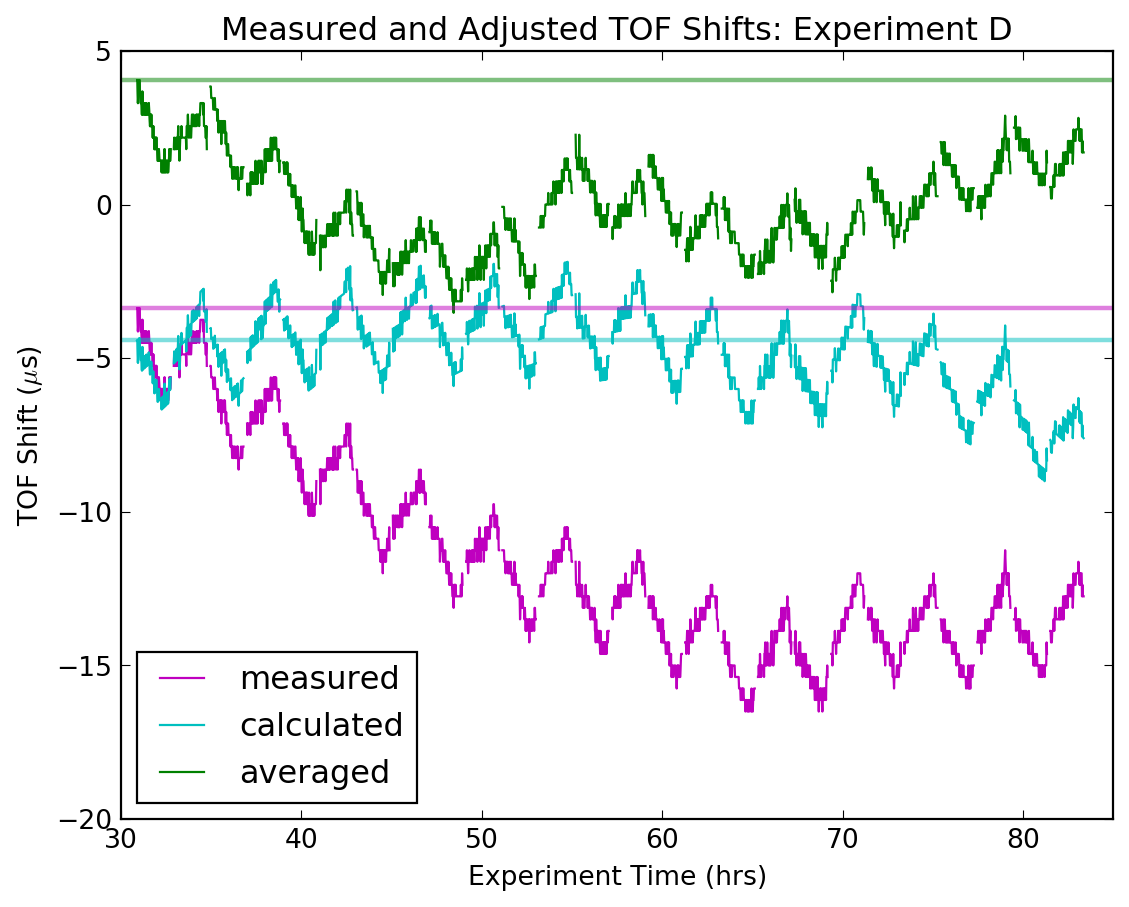
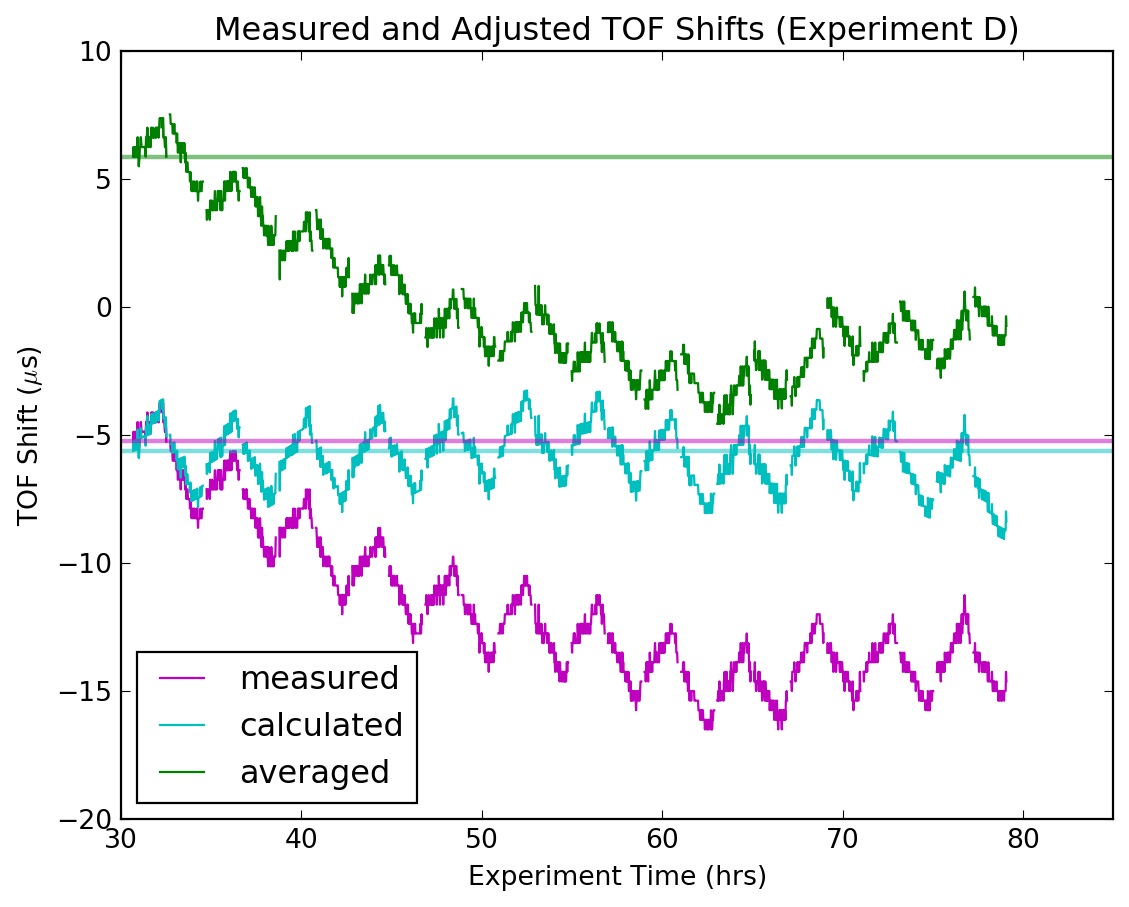
conclusion - finished ?

diff --git a/Thesis/results.tex b/Thesis/results.tex
@@ -7,7 +7,7 @@ By systematically adding and understanding changes in each category to the exper
 
 SoC and SoH cause changes in the travel time of an ultrasonic signal through the cell due to changes to the cell's bulk properties, including the materials composition of each layer, the stiffnesses and densities of these materials, and the thicknesses of these layers \cite{SOC-SOH-EST}. The relationship between the velocity $V_p$ at which a wave travels through an isotropic elastic material can and the materials properties of the material its traveling through can be expressed as
 $$ V_p = \sqrt{\frac{K + \frac{3}{4}G}{\rho}}$$
-where $K$ is the material bulk modulus, $G$ is the material shear modulus, and $\rho$ is the material density \cite{SOC-SOH-EST}. This shows that increases in a layer's density will increase the time a wave spends transmitting through a layer, causing a positive TOF shift. Conversely, increases in a layer's bulk and shear moduli (essentially, stiffening of the layer), will allow the ultrasonic wave to propogate through the layer more quickly, causing a negative TOF shift. As the state of charge of the cell changes, lithium ions are forced to move between electrodes, changing the cell's materials composition and materials structure. As the state of health changes, metallic lithium both collects on the surface of the graphite electrode, and fills some of the graphite's pores, changing the stiffness of the material and its density. The density and thickness of various layers of the cell at different states of charge or health is complicated to model, but the particulars aren't actually needed in order to interpret changes in ToF as caused by changes in state of health, state of charge, or even changes in ambient conditions. In order to avoid that complicated analysis, this work focuses on the metric of change in ToF shift. For any given state of health, cycling of state of charge should create a consistently undulating curve, so if a cycle's ToF shift is normalized against the ToF shift data from the first cycle, changes in either state of health or ambient conditions can be observed. The remainder of this paper will step through the analysis to build that up step by step, first by establishing an understanding of the relationship between ToF shift and state of charge, then considering variation in state of health, and finally incorporating change in ambient temperature, a step not taken in prior work.
+where $K$ is the material bulk modulus, $G$ is the material shear modulus, and $\rho$ is the material density \cite{SOC-SOH-EST}. This shows that increases in a layer's density will increase the time a wave spends transmitting through a layer, causing a positive TOF shift. Conversely, increases in a layer's bulk and shear moduli (essentially, stiffening of the layer), will allow the ultrasonic wave to propagate through the layer more quickly, causing a negative TOF shift. As the state of charge of the cell changes, lithium ions are forced to move between electrodes, changing the cell's materials composition and materials structure. As the state of health changes, metallic lithium both collects on the surface of the graphite electrode, and fills some of the graphite's pores, changing the stiffness of the material and its density. The density and thickness of various layers of the cell at different states of charge or health is complicated to model, but the particulars aren't actually needed in order to interpret changes in ToF as caused by changes in state of health, state of charge, or even changes in ambient conditions. In order to avoid that complicated analysis, this work focuses on the metric of change in ToF shift. For any given state of health, cycling of state of charge should create a consistently undulating curve, so if a cycle's ToF shift is normalized against the ToF shift data from the first cycle, changes in either state of health or ambient conditions can be observed. The remainder of this paper will step through the analysis to build that up step by step, first by establishing an understanding of the relationship between ToF shift and state of charge, then considering variation in state of health, and finally incorporating change in ambient temperature, a step not taken in prior work.
 
 When this paper discusses wave arrivals, it is shorthand for first-arrival; subsequent arrivals change less straightforwardly than the first arrival since they are impacted by the thickness of each layer and the relative properties of each adjacent layer \cite{SOC-SOH-EST}, complicating analysis without adding much understanding, so are ignored in these analyses.
 
@@ -17,7 +17,7 @@ When this paper discusses wave arrivals, it is shorthand for first-arrival; subs
 \section{Time of Flight Shift Due to Change in State of Charge}
 The data clearly demonstrate a strong and consistent relationship between acoustic ToF through the cell and the cell's state of charge while ambient conditions and cell state of health are held steady.  \hyperref[fig:0315]{\cref{fig:0315}} shows a protocol with two C/2.5, two 2C, two 5C, and two 10C charging cycles. The TOF data is very similar for each of the cycles in the C/2.5 and 2C cycles, which would would expect since the temperature is roughly constant, and there should have been no appreciable plating at such gentle cycles. One would expect that if the only cause in ToF shift was change in state of charge, then the ToF at the beginning of the charge cycle and the end of the discharge cycle would be the same, which is approximately the case for the C/2.5 and 2C cycles. Starting a bit with the 5C cycles and becoming quite noticeable with the 10C cycles, there is an offset between the ToF the charging portion of the cycle begins at, and the ToF the discharging portion ends at; this was not the case with the gentle cycles and happens despite the temperature holding relatively steady (about $1^{\circ}$C variation across all four latter cycles), suggesting the cause is lithium plating (a change in the state of health of the cell).
 
-\begin{figure}[t]\label{fig:0315}
+\begin{figure}[h!]\label{fig:0315}
     \includegraphics[width=0.55\textwidth]{Thesis/0315.png}
     \centering
     \caption{ToF Shift across the experiment, with load voltage and temperature shift.}
@@ -38,7 +38,7 @@ Since the ambient conditions were steady and there was no variation in the cycli
 This is corroborated by optical, SEM, and XPS imaging. 
 SEM (scanning electron microscope) and XPS (X-Ray Photoelectron Spectroscopy) analyses confirm plating on the electrodes of the cells, but such techniques do not provide information on when the plating occurred.
 
-\begin{figure}[t!]\label{fig:optical}
+\begin{figure}[h!]\label{fig:optical}
 \centering
      \begin{subfigure}
          \centering
@@ -58,7 +58,7 @@ Visual analysis provided simple confirmation that the cell had plated; since the
 %% SEM ANALYSIS
 %%
 \subsubsection{SEM Imaging}
-\begin{figure}[t!]\label{fig:sem}
+\begin{figure}[h!]\label{fig:sem}
 \centering
 \caption{SEM images of cells after experiencing a few 5C cycles and either zero (left), one (center), or two (right) 10C cycles.}
      \begin{subfigure}
@@ -113,7 +113,21 @@ the measured change in acoustic ToF attributable to the change in volume due to 
 It assumes the cell's strenuous operation and resulting lithium plating had no effect on the graphite.
 It also assumes a solid lithium plate of constant density, which, to reiterate, is not truly the case. Nonetheless, those should have small effects on the response. 
 
-The literature suggests that volume changes of other components of the cell would have similarly small contributions to the change in acoustic ToF. Siegel et al demonstrated that repeated 5C cycling of lithium ion pouch cells experienced a volume expansion of just 1.5\% across 21 cycles \cite{EXPANSION}, suggesting that the cells in these experiments would have experienced similarly small changes in volume, which would have minimally contributed to the changes in ToF shift following plating. Indeed, Davies et al induced an increase in cell thickness by charging a pouch cell yet found that due to the overwhelimg influence of other factors on ToF, the cell's ToF actually decreased as the cell charged \cite{SOC-SOH-EST}.
+The literature suggests that volume changes of other components of the cell would have similarly small contributions to the change in acoustic ToF. Siegel et al demonstrated that repeated 5C cycling of lithium ion pouch cells experienced a volume expansion of just 1.5\% across 21 cycles \cite{EXPANSION}, suggesting that the cells in these experiments would have experienced similarly small changes in volume, which would have minimally contributed to the changes in ToF shift following plating. Indeed, Davies et al induced an increase in cell thickness by charging a pouch cell yet found that due to the overwhelming influence of other factors on ToF, the cell's ToF actually decreased as the cell charged \cite{SOC-SOH-EST}.
+
+\begin{figure}[h!]\label{fig:rest}
+\centering
+     \begin{subfigure}
+         \centering
+         \includegraphics[width=0.48\textwidth]{Thesis/0409rest.png}
+     \end{subfigure}
+     \hfill
+     \begin{subfigure}
+         \centering
+         \includegraphics[width=0.48\textwidth]{Thesis/0417rest.png}
+     \end{subfigure}
+     \caption{These plots comparing ToF shift, $\Delta$T, and voltage across experiments C and D show that the increases in ToF created by the 5C cycles persist even though the extended three hour rests; visually, any variation in ToF across the rests corresponds with changes in temperature.}
+\end{figure}
 
 That said, it could be argued that the gradually increasing ToF shifts from the 5C and especially 10C cycles are due to viscoelastic relaxation - while the 10 minute rest periods between cycles was enough for the C/2.5 and 2C cycles, the more strenuous cycles perhaps require more time for full relaxation. However, this is refuted by the data from the longer three hours rests which serve as transitions between charging rates. Take as example the three hour rest between the 5C and 10C rates in Experiment D; the ToF shift is near constant, suggesting no relaxation takes place, and the progressively increasing ToF shift during that cycle was in fact due to plating; the optical, SEM, and XPS imaging results reinforce this.
 
@@ -144,7 +158,7 @@ Polynomial fits and linear regressions correlate change in ambient temperature w
 
 The thermocouples and transducers have different sampling rates and schedules, so a couple approaches created paired change in ToF shift and change in temperature data; these are compared in \hyperref[fig:0417temp]{\cref{fig:0417temp}}. 
 In one version of the analysis, change in temperature data was averaged across a cycle and regressed against change in TOF shift data. 
-\begin{figure}[t]\label{fig:0417temp}
+\begin{figure}[h!]\label{fig:0417temp}
     \includegraphics[width=0.55\textwidth]{0417temp.png}
     \centering
     \caption{Calculated vs measured temperatures.}
@@ -152,9 +166,10 @@ In one version of the analysis, change in temperature data was averaged across a
 More accurate results resulted from interpolating the temperature data using linear or polynomial fits, depending on the shape of the temperature data.
 
 The analysis shows a reasonable estimate at how the ToF would shift without the influence of the ambient temperature shifts, potentially broadening the application of the technique in monitoring cells. The data from Experiment D provides the following correction to remove the influence of temperature fluctuations from time of flight data:
-$$ \text{ToF}_{adj} = \text{ToF}_{meas} + 33.46\Delta T^2 + 48.35\Delta T + 13.41)$$
 
-\begin{figure}[t!]\label{fig:adj}
+$$ \text{ToF}_{adj} = \text{ToF}_{meas} + 35.66\Delta T^2 + 59.07\Delta T + 22.77)$$
+
+\begin{figure}[h!]\label{fig:adj}
 \centering
      \begin{subfigure}
          \centering
@@ -175,13 +190,13 @@ At any particular point in the cycle's duration, the ToF shift in each cycle sho
 Ideally there would be perfect overlap in the data from each cycle within a protocol within an experiment, but before the ambient temperature shift's influence was removed, this was clearly not the case. 
 The overlap is still imperfect after the TOF shift data was adjusted based on the regressions, but it is much better.
 
-\begin{figure}[t]\label{fig:0417overlays}
+\begin{figure}[h!]\label{fig:0417overlays}
 \includegraphics[width=0.95\textwidth]{Thesis/0417overlays.png}
 \centering
 \caption{Overlays of the raw and adjusted ToF shifts across each charge cycle (far and center left) and discharge cycle (center and far right) from Experiment D. The adjusted data used a regression to remove the influence of ambient temperature fluctuations.}
 \end{figure}
 
-\begin{figure}[t]\label{fig:0409overlays}
+\begin{figure}[h!]\label{fig:0409overlays}
 \includegraphics[width=0.95\textwidth]{Thesis/0409overlays.png}
 \centering
 \caption{Overlays of the raw and adjusted ToF shifts across each charge cycle (far and center left) and discharge cycle (center and far right) from Experiment C. The adjusted data used a regression to remove the influence of ambient temperature fluctuations.}

diff --git a/Thesis/procedure.tex b/Thesis/procedure.tex
@@ -1,5 +1,4 @@
 % lithium ion: lithium cobalt oxide / graphite
-% 0.30 mAh
 \chapter{Procedure}
 The experimental procedures aimed to progressively change the cell's state of charge and state of health systematically, such that the influence of each on shift in acoustic ToF through the cell would be observable.
 The goal of the first experiment was to acoustically observe first shifts in ToF data due to change in a cell's state of charge, and then shifts due to cycling-induced lithium plating, a form of change of the cell's state of health. 
@@ -8,7 +7,7 @@ In response, several improvements were made to the experimental apparatus in an 
 The second experiment's goal was to determine whether these changes adequately controlled the ambient conditions to prevent them from overwhelming the ToF data with noise; it was successful. 
 The experiment showed a close and consistent relationship between time of flight and cell state of charge (ToF and SoC).
 
-Recall that three three main actors of change on an acoustic wave's time of flight through a battery cell are ambient conditions (most relevantly, temperature and pressure), state of charge, and state of health \todo{cite?}. Now that the set-up was validated to have minimal change in ambient conditions, and a relationship between ToF and SoC strongly established, further experimentation could reasonably explore the relationship between the cell's state of health and acoustic time of flight. The goal of the next experiment was to force plating via aggressive electrochemical cycling, and acoustically observe this while it happens using ToF data; it was successful. Following that, the goal of the next fourth experiment was to induce a minimum of plating on the cell, to use as a point of comparison; this was accomplished by cycling the cell at 5C but never 10C rates of charge. The subsequent goal was to induce just some plating in the cell, by loading at a 10C charge rate for only one charging cycle; it was successful. Then, to build up more data for analysis, potentially for use in controlling for the influence of temperature, a cell was cycled at C/2.5 20 times, before being destructively cycled at progressively higher rates until 10C.
+Recall that three three main actors of change on an acoustic wave's time of flight through a battery cell are ambient conditions (temperature and pressure), state of charge, and state of health, as shown by the prior literature such as \cite{SOC-SOH-EST}, and the fact that acoustic velocity through a material is constant at a given temperature and pressure \cite{OLYMPUS}. Now that the set-up was validated to have minimal change in ambient conditions, and a relationship between ToF and SoC strongly established, further experimentation could reasonably explore the relationship between the cell's state of health and acoustic time of flight. The goal of the next experiment was to force plating via aggressive electrochemical cycling, and acoustically observe this while it happens using ToF data; it was successful. Following that, the goal of the next fourth experiment was to induce a minimum of plating on the cell, to use as a point of comparison; this was accomplished by cycling the cell at 5C but never 10C rates of charge. The subsequent goal was to induce just some plating in the cell, by loading at a 10C charge rate for only one charging cycle; it was successful. Then, to build up more data for analysis, potentially for use in controlling for the influence of temperature, a cell was cycled at C/2.5 20 times, before being destructively cycled at progressively higher rates until 10C.
 
 \section{Observing ToF Shifts Due to State of Charge}
 
@@ -33,12 +32,12 @@ Additionally, the cycling was postponed to a later experiment.
 For now, the cell would be left at rest for the duration of the experiment. 
 If there was no significant shift in acoustic ToF data while the cell waited at rest for a long period, then the noise in the environment is adequately controlled and cycling experimentation can proceed. 
 If there were still shifts, the environment would need further control, probably through higher-precision active temperature control and pressure control. 
-For 24 hours, the cell was probed ultrasonically while pressurized in the thermal chamber \todo{thermal, pressure data}.
+For 24 hours, the cell was probed ultrasonically while pressurized in the thermal chamber.
 
 The data show that the ToF did not shift while the temperature was held constant, and then shifted in step with a shift in temperature at the end, verifying that this setup effectively reduced environmental noise to acceptable levels to begin attempting to observe ToF shifts due to cell state.
 
 \subsection{Experiment A: Acoustic Monitoring of Electrochemical Cycling}
-\begin{figure}[t]\label{fig:neware0309}
+\begin{figure}[h!]\label{fig:neware0309}
     \includegraphics[width=0.75\textwidth]{Thesis/neware0309.PNG}
     \centering
     \caption{The protocol for experiment A.}
@@ -56,16 +55,16 @@ The latter two cycles expect lithium plating.
 
 \section{Observing ToF Shifts Due to State of Health} 
 \subsection{Experiment B: Acoustic Monitoring of Lithium Plating}
-\begin{figure}[t]\label{fig:neware0325}
+\begin{figure}[h!]\label{fig:neware0325}
     \includegraphics[width=0.75\textwidth]{Thesis/neware0325.PNG}
     \centering
     \caption{The protocol for experiment B.}
 \end{figure}
 
-The goal of this test was to plate lithium at less aggressive charging rates of 5C, rather than 10C, so that most or all appreciable plating would be removed during the discharge cycle. XPS and SEM analysis showed this to be mostly successful \todo{moar}. However, the temperature fluctuated much more during this experiment than the prior, and this lead to noisy readings of time of flight. This created an opportunity to relate change in ambient temperature with change in time acoustic time of flight. 
+The goal of this test was to plate lithium at less aggressive charging rates of 5C, rather than 10C, so that most or all appreciable plating would be removed during the discharge cycle. XPS and SEM analysis showed this to be mostly successful. However, the temperature fluctuated much more during this experiment than the prior, and this lead to noisy readings of time of flight. This created an opportunity to relate change in ambient temperature with change in time acoustic time of flight. 
 
 \subsection{Experiment C: Acoustic Monitoring of Minimal Lithium Plating}
-\begin{figure}[t]\label{fig:neware0409}
+\begin{figure}[h!]\label{fig:neware0409}
     \includegraphics[width=0.75\textwidth]{Thesis/neware0409.PNG}
     \centering
     \caption{The protocol for experiment C.}
@@ -74,7 +73,7 @@ The goal of this experiment was to plate a fixed amount of lithium. It used a pr
 
 
 \subsection{Experiment D: Acoustic Monitoring of Gentle Cycling}
-\begin{figure}[t]\label{fig:neware0417}
+\begin{figure}[h!]\label{fig:neware0417}
     \includegraphics[width=0.75\textwidth]{Thesis/neware0417.PNG}
     \centering
     \caption{The protocol for experiment D.}

diff --git a/Thesis/conclusion.tex b/Thesis/conclusion.tex
@@ -1,10 +1,4 @@
 \chapter{Conclusion}
-
-This thesis demonstrated the capability of acoustic time of flight analysis to observe changes in the state of charge and state of health in a fast-charge lithium-ion cell, and even to observe changes in the cell's ambient temperature. 
-
-First, appropriate background was provided. Then, the requirements for and design of an experimental apparatus were provided. 
-In short, this apparatus allows for the control of the three factors in shifts in time of flight of an acoustic wave through the lithium-ion cell: ambient conditions (in this case, temperature and pressure are of interest), cell state of charge, and cell state of health. 
-The apparatus allows for the measurement and control of ambient temperature and pressure around the cell, and electrical load on the cell. 
-Experimental procedures were established for observing and at times manipulating the electrochemical, acoustical, and thermal state of the cell and its environment. Finally, the data gathered while following those procedures was analyzed.
-
-Ultimately, the analysis demonstrated the validity of acoustic time-of-flight analysis for observing changes in state of charge, state of health, and even ambient conditions in lithium-ion fast-charge cells. \todo{accomplished?} Further work could include going deeper into this line of research by building predictive models to quantify observed plating, developing an experimental apparatus and protocol that would allow for probing cells stacked in a more commercially-typical manner, or adapting the apparatus and analysis to work with cheaper, lower frequency sensors.
+This thesis builds on prior work in developing new, ultrasonic methods for measuring battery state of charge and state of health \emph{in operando}, and for the first time demonstrates the technology's ability to measure ambient temperature, a key metric for achieving safe, high performance electric vehicles. This work was able to demonstrate for the first time that ultrasonic state of charge and state of health monitoring methods previously developed for less finicky battery chemistries and form factors is applicable even to extreme fast-charge lithium ion cells, despite their size being on the order of microns, which greatly increased the influence of ambient effects. The work demonstrated that this could actually be viewed as a feature, as a clear relationship was demonstrated between temperature shift and time of flight shift. It was shown that this relationship is numerically consistent for a particular cell, and can even be used to reasonably predict what the readings would have been had temperature not shifted. 
+Once a cell was known, this relationship could be reversed, allowing the same sensor to be used for measuring state of charge, state of health, and temperature. The added ability for a sensor to also measure temperature could be very useful in high-performance applications such as electric vehicles, which rely on careful temperature monitoring to ensure safe battery operation and long battery lifetime.
+Further work could include going deeper into this line of research by building predictive models to quantify observed plating, developing an experimental apparatus and protocol that would allow for probing cells stacked in a more commercially-typical manner, or adapting the apparatus and analysis to work with cheaper, lower frequency sensors.

diff --git a/Thesis/apparatus.tex b/Thesis/apparatus.tex
@@ -18,7 +18,7 @@ The pressure should be adjustable. This is in part because cells of different ge
 Additionally, Cannarella defined low, medium, and high stack pressure regimes, and the high pressure regime could be used to induce lithium plating if need be \cite{STACK-STRESS}.
 
 After initial experimentation, it became clear that the apparatus would also have to be relatively temperature controlled. 
-Temperature fluctuations lead to material changes in time of flight through the cell, introducing so much noise to the data that the signal was totally obscured.
+Temperature fluctuations lead to material changes in time of flight through the cell, introducing so much noise to the data that the signal was totally obscured. This makes sense, since the velocity of an acoustic wave through a material can only be assumed constant given that temperature and pressure is constant \cite{OLYMPUS}.
 A thermal chamber was added to the set-up to hold the temperature of the cell and transducers more constant, along with thermocouples and a microcontroller to log the temperature data for use during the electrochemical-acoustical analysis.
 
 \section{Transducer Considerations}
@@ -31,7 +31,7 @@ $$\sin \theta _R = 1.22 \frac{\lambda}{d}$$
 showing that the resolution of an image is directly limited by the wavelength used to produce it \cite{RAYLEIGH}.
 Due to the simple relationship 
 $$ \lambda = c/f$$
-a transducer with a small wavelength will have an accordingly large frequency. At such a high frequency, the readings will be quite susceptible to attenuation, which increases linearly with the square of frequency and the square of bandwidth \cite{OLYMPUS}, putting resolution and attenuation at odds. Attenuation is \todo{what is}.
+a transducer with a small wavelength will have an accordingly large frequency. At such a high frequency, the readings will be quite susceptible to attenuation, which increases linearly with the square of frequency and the square of bandwidth \cite{OLYMPUS}, putting resolution and attenuation at odds. 
 
 \subsection{Near-Field Effects}
 The sound field of a transducer is not constant, but rather split into two zones with distinct behavior: the near-field (or Fresnel) zone, and the far-field (or Fraunhofer) zone \cite{OLYMPUS}. 

diff --git a/Thesis/background.tex b/Thesis/background.tex
@@ -19,7 +19,7 @@ Good charge and discharge performance requires that the "lithium insertion/extra
 
 \subsubsection{Lithium Plating}
 The reactivity of lithium with its electrolyte can lead to considerable performance degradation \cite{HANDBOOK}. 
-This is exasperated because repetitive charge-discharge cycling can permanently change the cell \cite{HANDBOOK}.
+This is exacerabated because repetitive charge-discharge cycling can permanently change the cell \cite{HANDBOOK}.
 During recharging, as the lithium is forced back onto the anode, it electroplates, forming a surface layer onto the electrode which has a larger surface area than the original metal \cite{HANDBOOK}. 
 Thus, charge and recharge cycling increases the surface area of the reacting surface, which correspondingly increases the reactivity \cite{HANDBOOK}. 
 Aggressive charge and discharge can force enough plating to significantly increase the surface area of the electrode, thus significantly increasing the cell's reactivity.
@@ -47,7 +47,7 @@ Charge with constant-voltage until the current steps down to ~0.1 Amps, at which
 \subsubsection{Charging Rates}
 To normalize across battery capacities, charge or discharge current is often expressed as a C-rate \cite{SPECS}. 
 A C-rate expresses the rate a battery at which a battery is discharged in terms of its maximum capacity; a 1C rate will fully discharge a battery in 1 hour, a C/2 rate will do so in 2 hours, and a 2C rate will discharge a battery in 1/2 hour \cite{SPECS}. 
-Since the cells being investigated in this work have a roughly x Amp-hours \todo{num} capacity, a 1C rate uses \todo{num} Amps for charging, whereas a 10C rate uses \todo{num} Amps.
+Since the cells being investigated in this work have a roughly x Amp-hours 0.30 mAh capacity, a 1C rate uses 0.0240 Amps for charging, whereas a 10C rate uses 0.24 Amps.
 
 \subsection{Acoustic Time of Flight (ToF) Analysis}
 Recent work has shown that acoustic Time of Flight (ToF) Analysis can show the state of charge and state of health of battery cells.
